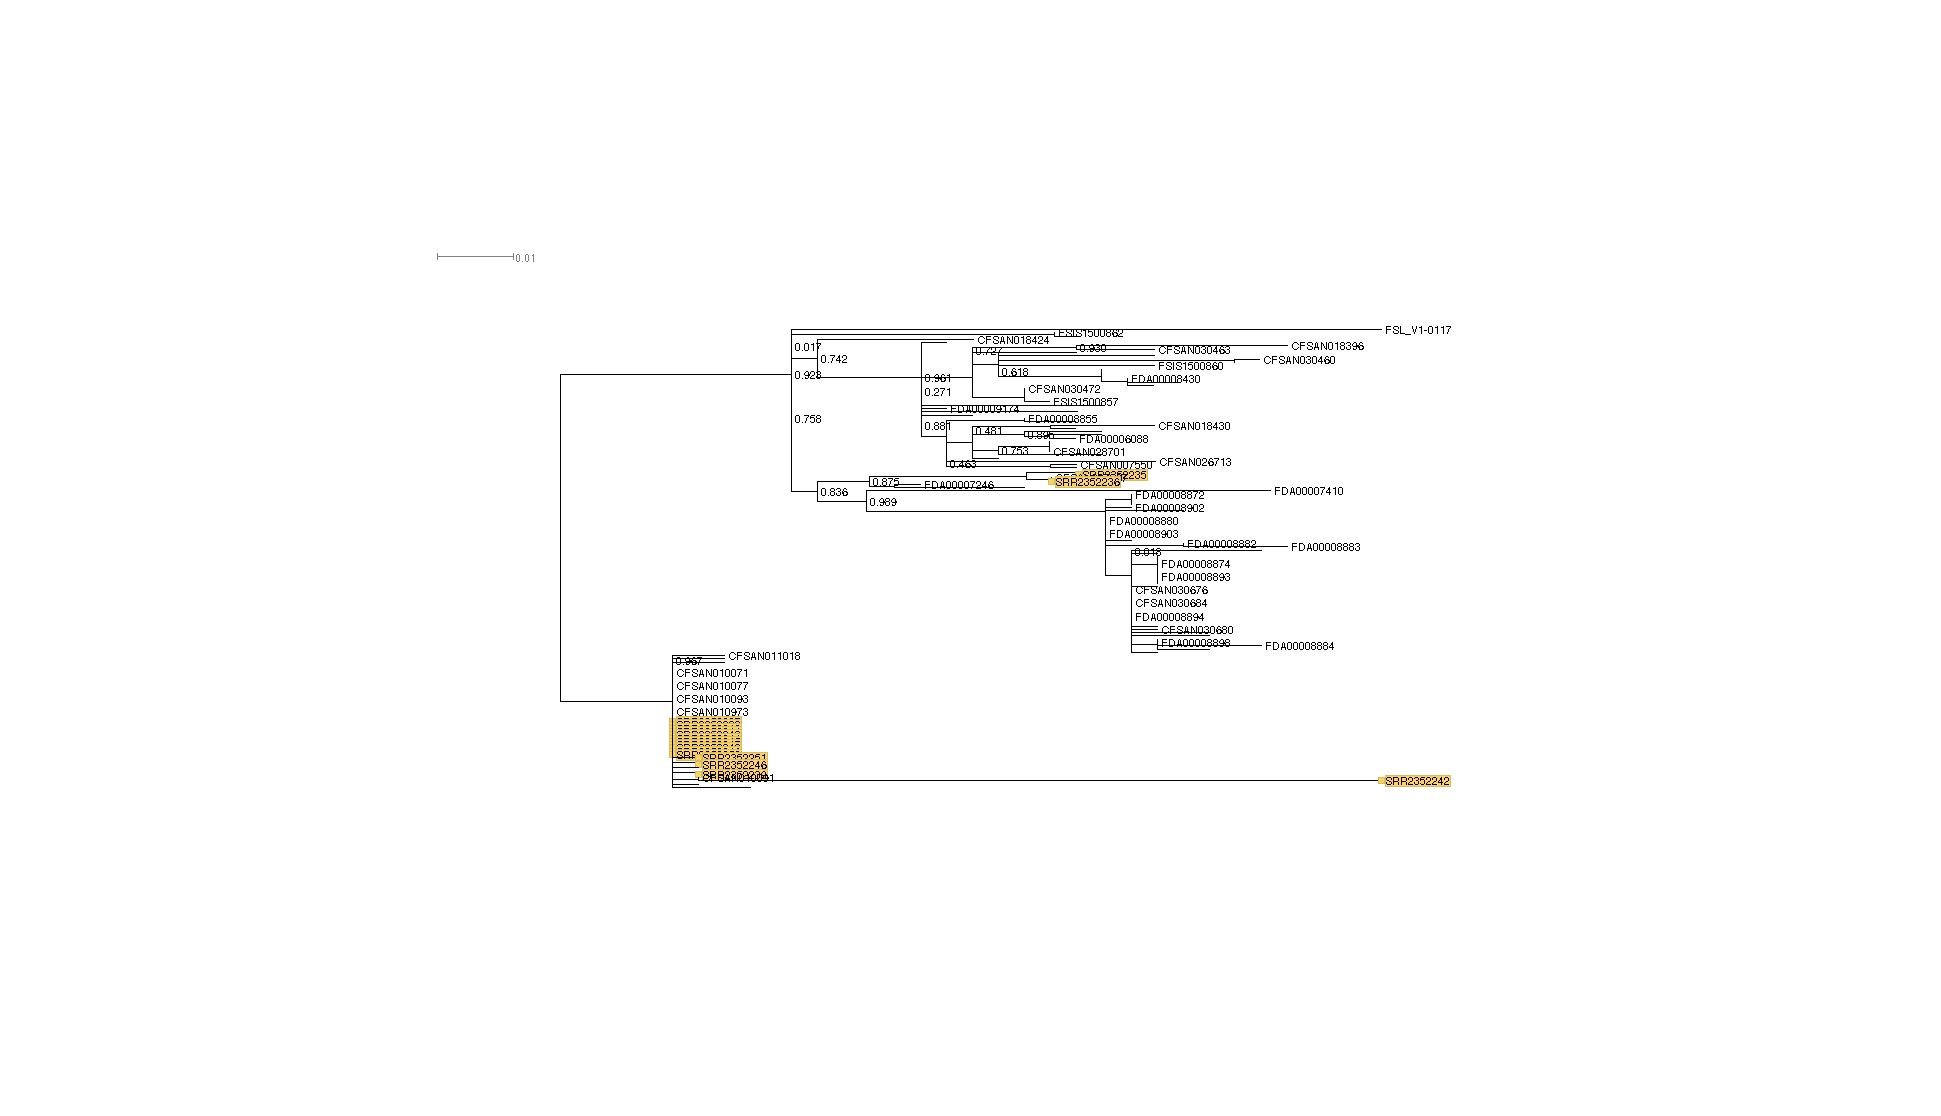
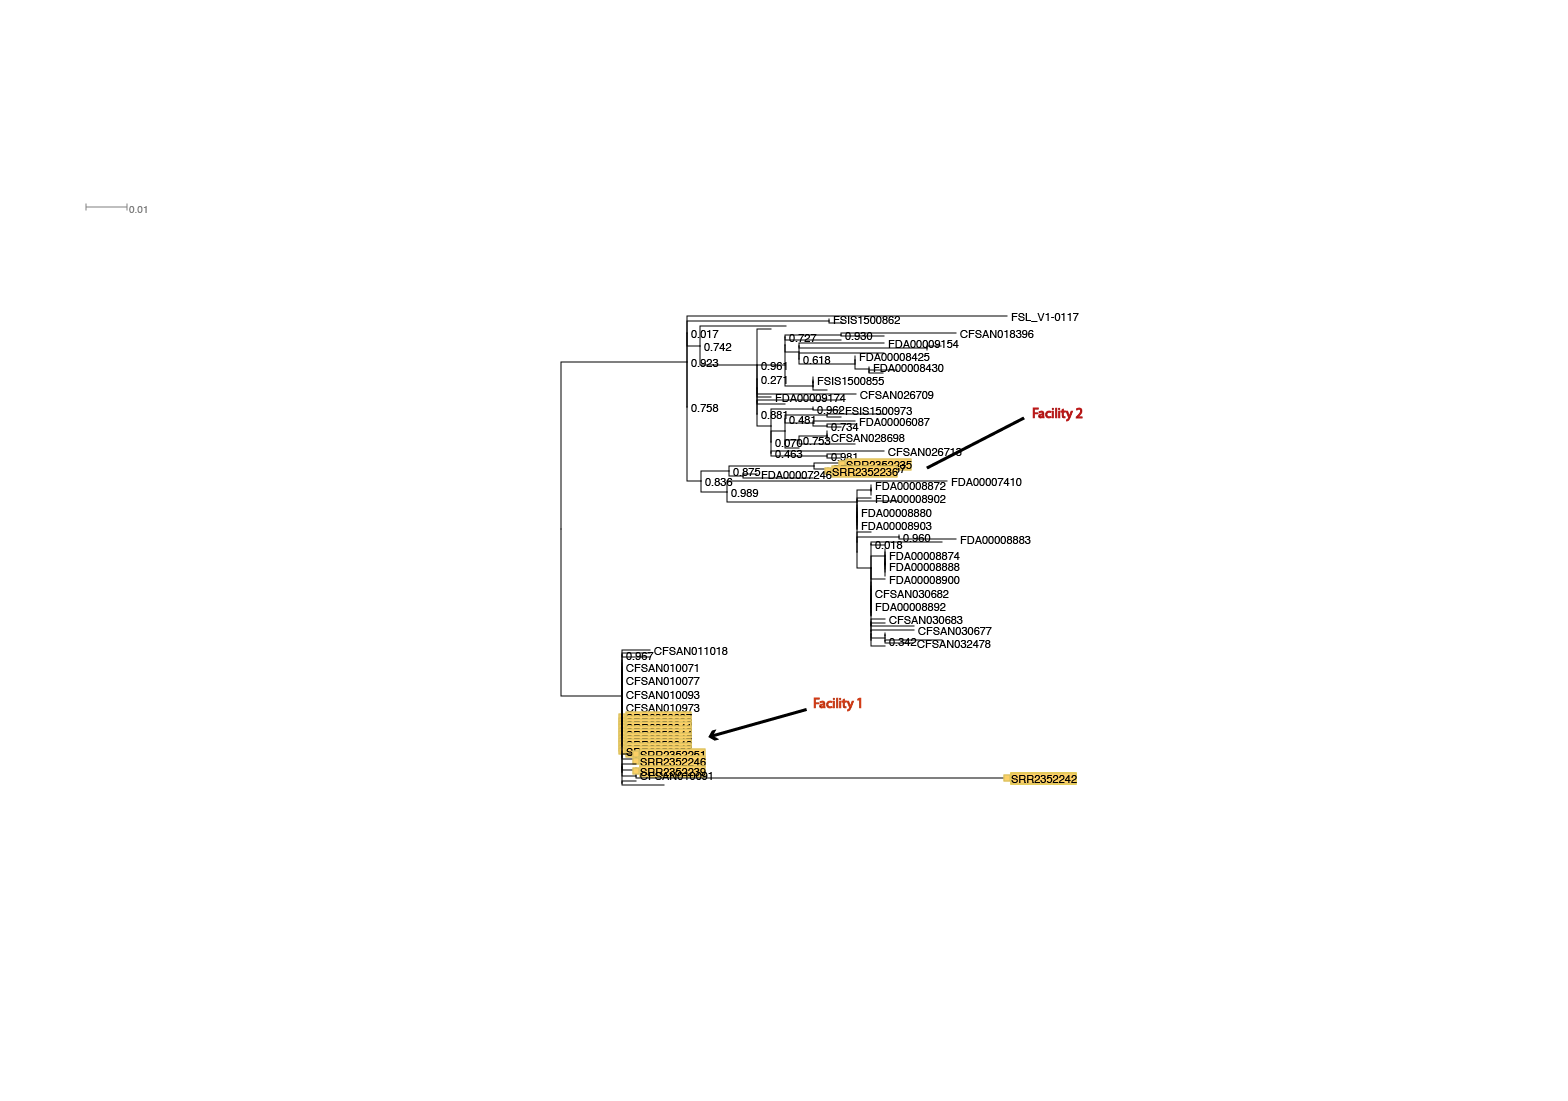
Update

Changed region(s): [[0.4062, 0.2779, 0.75, 0.5867], [0.3438, 0.5867, 0.75, 0.7103], [0.5, 0.6176, 0.5625, 0.6485]]

diff --git a/_sections/results.md b/_sections/results.md
@@ -42,8 +42,11 @@ We used this tree to identify a set of 141 samples (including the 18 challenge s
 [Figure 2](#figure-2)
 
 
-We found ?, tree looked like ?, did indels resolve any otherwise identical samples? Phages?
-Some specific example(s) where indel//phage provided better resolution, if such exist
+The tree revealed a number of clusters, which we then analysed individually. The single sample which is a clear outlier is SRR2352342 (ASM58) which is sequenced to much lower depth (20x) than all the others. This revealed to us that we were allowing too low confidence SNP calls to contribute to our tree; Outbryk is newly developed and not yet production-worthy. One of the interesting issues raised by this challenge is the difficulty of scaling efficiently while maintaining an good statistical model when dealing with growing volumes of heterogeneous data (our full Listeria set included old and new Illumina data, high and low coverages, and also some 454 data).
+
+Our pipeline takes human-specified clusters and automatically analyses them in terms of shared sequence (contigs), known genes and/or phages, and indels. Looking at the clusters in turn:
+
+
 
 
 

diff --git a/_figures/list_joint_tree.md b/_figures/list_joint_tree.md
@@ -3,7 +3,7 @@ layout: figure
 order: 2
 label: Figure 2
 title: "Final phylogeny of Listeria"
-description: "Tree of 141 Listeria samples"
+description: "Tree of 141 Listeria samples, challenge samples highlighted in yellow. Outlier is single low coverage (20x) sample, discussed in main text"
 image: "data/listeria/tree_joint.png"
 ---
 <img src="{{ site.baseurl }}/data/listeria/tree_joint.png">
